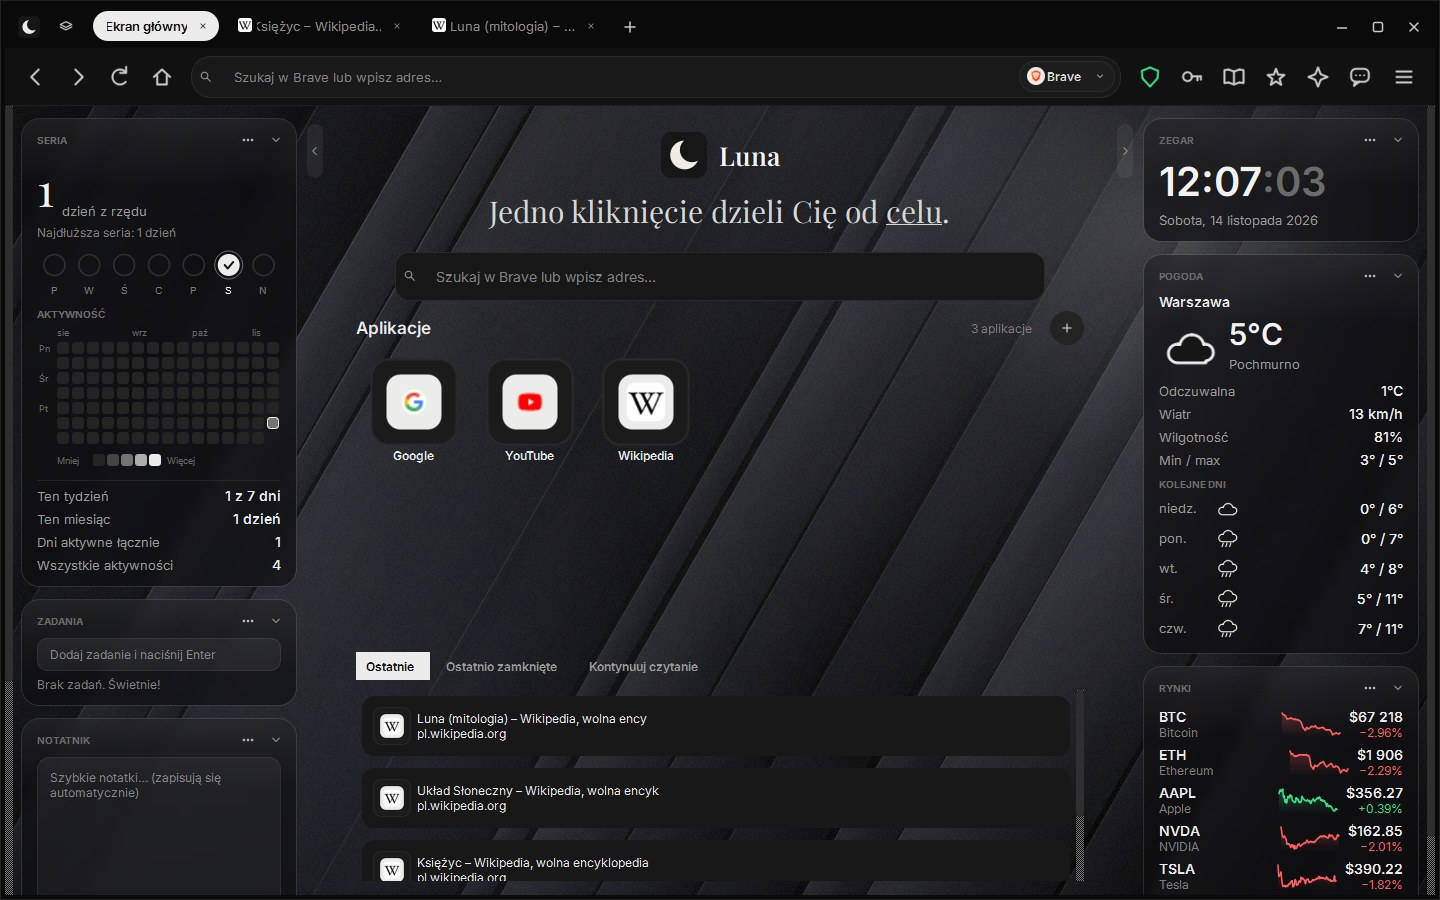
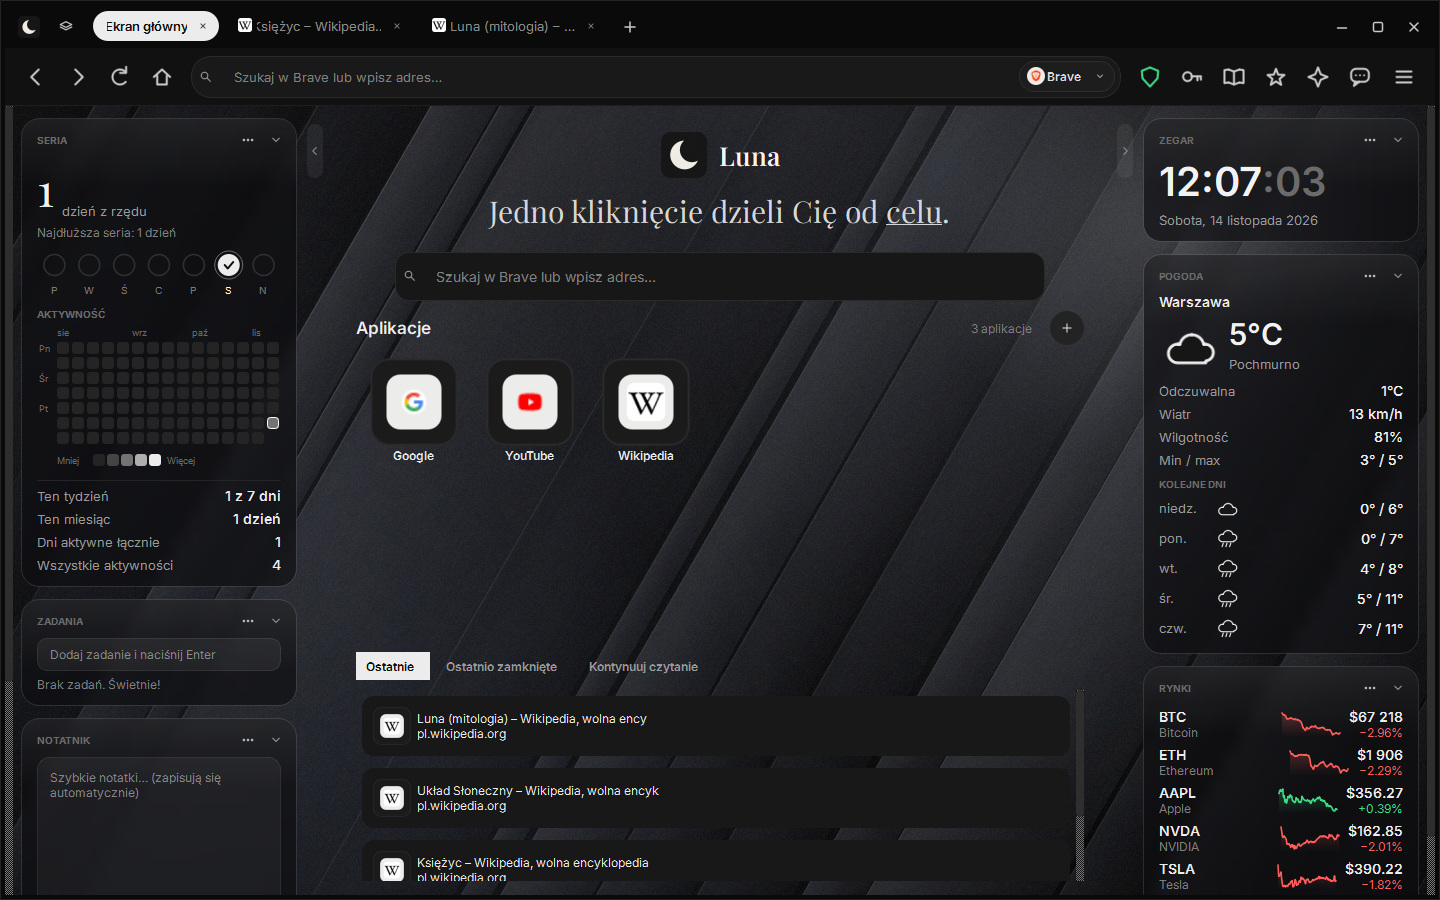
Strona Luny: zrzuty ekranu w prawidłowych proporcjach i lepszej jakości
Zrzuty nie są już ściśnięte w pionie, gdy okno jest węższe niż obraz,
a zdjęcia ekranu są zapisane w wyższej jakości.

diff --git a/docs/index.html b/docs/index.html
@@ -19,7 +19,7 @@
   body { margin:0; background:var(--bg); color:var(--fg); font:16px/1.65 "Segoe UI", system-ui, -apple-system, sans-serif;
          -webkit-font-smoothing:antialiased; }
   a { color:var(--hi); text-decoration:none; }
-  img { max-width:100%; display:block; }
+  img { max-width:100%; height:auto; display:block; }
   .wrap { max-width:1120px; margin:0 auto; padding:0 20px; }
   code, pre { font-family:Consolas, "Cascadia Mono", monospace; }
 
